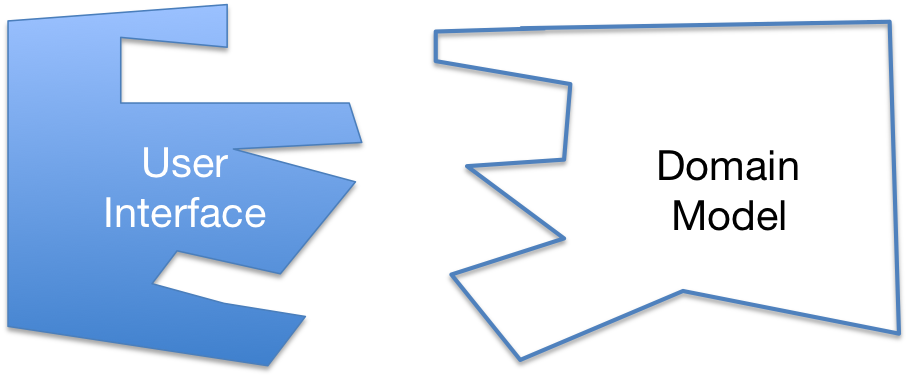
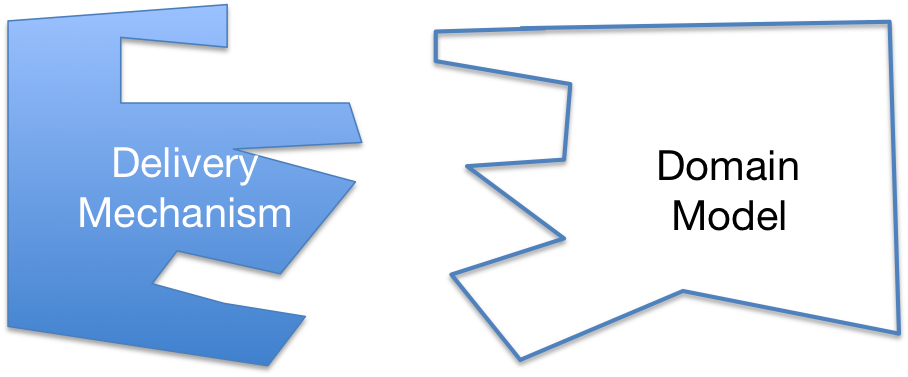
Finished writing and reviwing the post

Changed region(s): [[0.0617, 0.5252, 0.3392, 0.6127], [0.1233, 0.3793, 0.3084, 0.496]]

diff --git a/_posts/2017-10-08-outside-in-design.md b/_posts/2017-10-08-outside-in-design.md
@@ -6,7 +6,7 @@ title: A case for Outside-In Development
 date: 2017-10-08 05:00:00 +00:00
 author: Sandro Mancuso
 image:
-   src: /assets/img/custom/blog/2017-10-08-outside-in-design/delivery-mechanism_vs_domain-model.png
+   src: /assets/img/custom/blog/2017-10-08-outside-in-design/outside-in.png
 tags:
 - craftsmanship
 - software design
@@ -20,7 +20,7 @@ There is no reason to have a backend when there is no front-end. There is no rea
 
 ### Inside-Out Development
 
-Many developers focus on implementing the Domain Model before defining how it will be used by the external world. The way users (via User Interface) or other systems (via APIs, Messages, etc) will interact with the system is treated as a lesser concern. Doing business analyses and focusing on modelling the domain first is what I have learned at university over two decades ago. That is also what I learned with my seniors during the first half of my career. Led by the belief that the front-end changed more often than the business rules, we opted for creating a fully _decoupled_ and _robust_ backend system first, leaving the UI for a later stage. This approach is what I call inside-out development. 
+Many developers focus on implementing the Domain Model before defining how it is going to be used by the external world. The way users (via User Interface) or other systems (via APIs, Messages, etc.) will interact with the system is treated as a lesser concern. Doing business analyses and focusing on modelling the domain first is what I have learned at university over two decades ago. That is also what I learned with my seniors during the first half of my career. Led by the belief that the front-end changed more often than the business rules, we opted for creating a fully _decoupled_ and _robust_ backend system first, leaving the UI to a later stage. This approach is what I call _inside-out development_. 
 
 <center>
 <img src="{{site.baseurl}}/assets/img/custom/blog/2017-10-08-outside-in-design/inside-out.png" alt=“inside-out” class="img img-responsive" style="height: 70%; width: 70%;"/>
@@ -31,17 +31,21 @@ Many developers focus on implementing the Domain Model before defining how it wi
 
 Let’s look at some of the most important advantages of inside-out development: 
 
+**Early validation of business requirements**
+
+Some questions related to the business requirements only emerge when we start working on the code. Start coding from the domain model allows us to focus on the business rules straightaway, giving us an opportunity to uncover business inconsistencies, clarify requirements with more details, and validate assumptions. Getting a quick feedback on important areas of the system is a risk mitigation strategy.
+
 **Risk mitigation**
 
-Start coding from the domain model allows us to focus on the business rules straightaway and validate our assumptions. It also allow us to uncover problems that can significantly change our understanding of the scope and cost of the project. 
+Investigative and preventive work that allow us to uncover problems that can significantly change our understanding of the scope and cost of the project before writing any _scaffolding_ code. Identifying and mitigating risks before building too much code minimises re-work and helps to keep the project healthy.
 
 **Most valuable things first**
 
 Developers should work on the most valuable tasks first and there is a common belief that the domain model is arguably the most valuable piece of software. A counter argument to that is that software has no business value if it is not used by anyone. From this perspective, the domain model only has value when the full feature is implemented and used in production.
 
-**Volatile UI changes left to the end**
+**Volatile User Interface left to the end**
 
-User Interface are notorious to be volatile while business rules tend to change far less once defined. Staring with the business rules allows backend developers to make some progress while front-end developers iterate on the UI design. 
+User Interfaces (UI) are notorious to be volatile while business rules tend to change far less once defined. Starting with the business rules allows backend developers to make some progress while front-end developers iterate on the UI design. 
 
 #### Disadvantages
 
@@ -49,7 +53,7 @@ Let’s look at some of the disadvantages of this approach:
 
 **Wasted effort**
 
-Without the guidance of a well-defined and concrete need from the external world (being a user interface or API — delivery mechanism), we can easily build things that are not needed. When we finally define the delivery mechanism and try to plug it in, we quickly realise that the backend does not exactly satisfies the needs of the delivery mechanism. At this point we need to either write some plumbing code to connect both sides, change the backend or worse, compromise on the usability defined by the delivery mechanism so that we can reuse the code in the backend. 
+Without the guidance of a well-defined and concrete need from the external world (being a user interface or API — delivery mechanism), we can easily build things that are not needed. When we finally define the delivery mechanism and try to plug it in, we quickly realise that the backend does not exactly satisfies all the needs of the delivery mechanism. At this point we need to either write some plumbing code to connect both sides, change the backend or worse, compromise on the usability defined by the delivery mechanism so that we can reuse the code in the backend as is. 
 
 <center>
 <img src="{{site.baseurl}}/assets/img/custom/blog/2017-10-08-outside-in-design/delivery-mechanism_vs_domain-model.png" alt=“delivery mechanism vs domain model” class="img img-responsive" style="height: 60%; width: 60%;"/>
@@ -58,50 +62,62 @@ Without the guidance of a well-defined and concrete need from the external world
 
 **Speculative development**
 
-When focusing on the internals of a system before defining how it is going to be used, our imagination runs wild. We start thinking about all the different possibilities and things our code should do. We try to make our domain model as robust and generic as possible. As we keep speculating, solutions quickly become more complex. 
+When focusing on the internals of a system before defining how the system is going to be used, our imagination runs wild. We start thinking about all the different possibilities and the things our code should do. We try to make our domain model as robust and generic as possible. The more we speculate, the more accidental complexity creeps in. 
 
 **Delayed feedback**
 
 Users or external systems consuming our APIs don’t care about our backend. We can only get feedback from them if we can provide something for them to use or access. It doesn’t matter what we do on the backend. If the user journey (via the user interface) or APIs are not suitable, our backend has no value. If the front-end or APIs are done after the domain model (backend), we will only get feedback when the whole feature is done and that is too late.  
 
-**Course-grained developement**
+**Course-grained development**
 
-Working in small increments is difficult when focusing on the backend first. As the backend code is not being written to satisfy a specific need of the delivery mechanism, it is difficult to know when the feature is going to be done. Often we need to wait for the whole feature to be done in order to deploy. This approach makes it difficult to slice features in vertical slices and deliver it incrementally, one slice at a time. 
+A great way to deliver software incrementally is to slice our features in thin vertical slices. This becomes very hard when we start from the domain model, as we are not writing code to satisfy a specific external need. While building the domain model we yet don’t have the outside requirements to guide the vertical slices.
+
+Without being able to find a proper thin vertical slice, we need to wait for the whole feature to be done in order to get feedback and deploy. It is also difficult to predict when a feature will be done when the deliver mechanism is treated as an after thought, only decided after the domain model is implemented. 
 
 **Rushed delivery mechanism**
 
-Another danger of focusing on the backend first is that when the backend is done, developers are generally out of time or not so keen to work on the front-end. They end up rushing the front-end implementation causing two main problems: a) a worse user experience; b) lower quality standards when comparing to the backend, leading to a messy and difficult-to-maintain delivery mechanism. 
+Another danger of focusing on the backend first is that when the backend is done, developers are generally out of time or not so keen to work on the front-end. They end up rushing the front-end implementation causing two main problems: a) a bad user experience, b) lower quality standards when comparing to the backend, leading to a messy and difficult-to-maintain delivery mechanism. 
 
 **Impaired collaboration**
 
-Mobile, front-end and backend teams should not work in parallel while the APIs are not defined. This is also true for cross-functional teams where mobile, front-end and backend developers are in the same team[^1]. Having backend developers defining APIs cause a lot of friction and re-work once mobile and front-end try to integrate their code. 
+Mobile, front-end and backend teams should not work in parallel while the APIs are not defined. This is also true for cross-functional teams where mobile, front-end and backend developers are in the same team.[^1] Having backend developers defining APIs cause a lot of friction and re-work once mobile and front-end developers try to integrate their code. 
 
-## Risk mitigation
+## A deeper look at the advantages of Inside-Out
+
+Let’s take a deeper look into the advantages of Inside-Out development and check if they are real advantages and how can some of them be applied to Outside-In development as well. 
+
+### Risk mitigation
 
 One of the biggest advantages of Inside-Out Development is to tackle the core of the system first and hopefully uncover unknown problems — this is called risk mitigation. But is risk mitigation a thing we should do only in Inside-Out Development? Are all types of risk mitigation and exploratory work at the same level? 
 
-Quite often we are not sure what the solution should look like, which tools we should use, or how certain frameworks work. Some exploratory work[^2] is needed. Let’s look at some categories of exploratory work:
+Quite often we are not sure what the solution for a given business requirement should look like, how the business requirements should be designed and coded, which tools we should use, or how some frameworks work. Some exploratory work is needed.[^2] Now let’s look at some categories of exploratory work:
 
 * **Technical:** Related to frameworks, libraries, databases, or tools.
 * **Architecture:** Related to how systems will talk to each other, how logic is distributed across systems, APIs, messages between systems, production environments, logging, monitoring, etc.
 * **Macro-design:** Related to how we are going to organise the code at higher level: layers, hexagonal, bounded contexts, etc.
-* **Micro-design:** Related to business rules, class collaborations, type of algorithms, function compositions, etc. 
+* **Micro-design:** Related to business domain rules, class collaborations, algorithms, function compositions, etc. 
+
+
+<center>
+<img src="{{site.baseurl}}/assets/img/custom/blog/2017-10-08-outside-in-design/architecture_macro_micro_design.png" alt=“architecture, macro and micro design” class="img img-responsive" style="height: 60%; width: 60%;"/>
+</center>
+<br/>
+
+There is a difference between trying to uncover the unknowns as early as possible and actually delivering a feature. They should not be part of the same task. Whenever we are unsure about what needs to be done or how things should work, we should create a [spike][1] (or any other time-boxed activity) to investigate the problem. Once we have more information we can then commit to build a feature.  
 
 > Do not mix exploratory work with feature development. 
 
-There is a difference between trying to uncover the unknowns as early as possible and actually delivering a feature. They should not be part of the same task. Whenever we are unsure about what needs to be done or how certain things work, we should create a [spike][1] (or any other time-boxed activity) to investigate the problem. Once we have more information we can then commit to build a feature.  
-
 Among the four categories above, I find there is value to create separate spikes for Technical, Architecture, and Macro Design investigations but not for Micro Design. That’s an area of my code that naturally emerge through [Outside-In TDD][2]. 
 
-## User Interface changes and impacts
+### User Interface changes and impacts
 
-Another argument to start development from the domain model (inside-out) is that the User Interface (UI) is volatile and its implementation should be postponed to the last responsible moment. Well, it is often true that the User Interface (UI) changes more often than the business rules but do all the UI changes really impact the backend? Let’s have a look at the most common types of UI changes and their respective impact on the backend code:
+Another argument to start development from the domain model (Inside-Out) is that the User Interface (UI) is volatile and its implementation should be done after the domain model is finished. Well, it is often true that the User Interface (UI) changes more often than the business rules do, but do all the UI changes really impact the backend? Let’s have a look at the most common types of UI changes and their respective impact on the backend code:
 
 #### Aesthetic
-Aesthetic changes are related to the look and feel of the UI. These changes can be done by web designers, front-end developers and user experience specialists without any change in the backend. Aesthetic changes are normally the most common type of changes in the UI.
+Aesthetic changes are related to the look and feel of the UI — normally done by web designers, front-end developers and user experience specialists without any impact in the backend. Aesthetic changes are normally the most common type of changes in the UI.
 
 #### Behavioural
-Behavioural changes are related to how users interact with the system. They impact the _user journey_, that means, the steps users need to perform to achieve a desired outcome. 
+Behavioural changes are related to how users interact with the system. They impact the _user journey_ — the steps users need to perform to achieve a desired outcome. 
 
 Behavioural changes can be subdivided in two main characteristics: **Navigational** and **Actionable**. 
 
@@ -109,63 +125,125 @@ Behavioural changes can be subdivided in two main characteristics: **Navigationa
 Navigational changes are related to how the user navigates across the application or within specific user journeys. In a web application, navigational changes in the UI may or may not trigger changes in the backend. It all depends on the type of front-end technologies being used and how the View and Controller layers (MVC) are structured. If the Controller layer lives in the browser (normally the case when using frameworks like AngularJS and React), there is no change in the backend. If we have a more traditional web application where the Controller lives in the backend, then the backend needs to change every time a link (or button) is added, removed, of changed. For more details, please have a look at my previous post on [MVC, Delivery Mechanism and Domain Model][3].
 
 **Actionable**
-Actionable changes are related to the actions the user can perform in the system. They are the ones that provide the business value to the user and to the company. Examples would be buying products, reading reviews of restaurants, booking a ticket, just to mention a few. Most often, the changes in the UI are small — adding a button, changing URL parameters or HTTP method or return code. The biggest change are normally in the backend, often creating or changing an existing API and the flow triggered by it. 
+Actionable changes are related to the actions the user can perform in the system. They are the ones that provide the business value to the user and to the company. Examples would be buying products, reading reviews of restaurants, booking a ticket, just to mention a few. Most often, the changes in the UI are small — adding a button, changing URL parameters or HTTP method or return code. The biggest changes are normally in the backend, often creating or changing an existing API and the flow triggered by it. 
 
 #### Data
-Data changes are related to the type of data displayed to the user or required from user. These changes normally involve a change in the data the existing APIs receive or return. In general, these changes in the backend are not so complicated as we only need to make _small_ changes to existing flows instead of creating a brand new flow. 
+Data changes are related to the data displayed to the user or required from user. These changes normally involve a change in the data the existing APIs receive or return. The impact on the backend varies according to the data and the complexity to return or store the data. 
 
 ### How much do UI changes really impact the domain model?
 
-As [discussed before][3], the way we decide to structure our delivery mechanism and domain model will make our backend more or less susceptible to UI changes. In a well structured web application, changes in the backend can be significantly reduced if the delivery mechanism is fully responsible for the navigation of the system while the domain model is only exposing  business flows and managing data. Although designed to satisfy user’s needs, the domain model should have no knowledge of how those business flows are presented to users.
+As [discussed before][3], the way we decide to structure our delivery mechanism and domain model will make our backend more or less susceptible to UI changes. In a well-structured web application, changes in the backend can be significantly reduced if the delivery mechanism is fully responsible for the navigation of the system while the domain model is only exposing business flows and managing data. Although designed to satisfy user’s needs, the domain model should have no knowledge of how those business flows are presented to users.
 
 ### User interactions represent user needs
 
-Every user interaction with the user interface represents a user need. It is the systems’s job to satisfy the user’s need every time the user request something. If the user only wants to navigate from one part of the website to another, than this logic belongs to the delivery mechanism and not the domain model. However, if the user wants store or retrieve information, than the logic belongs to the domain model. And its from the user’s perspective that we should start designing our domain model. 
+Every user interaction with the user interface represents a user need. It is the systems’ job to satisfy the users need every time users request something. If the user only wants to navigate from one part of the website to another, than this logic belongs to the delivery mechanism and not the domain model. However, if the user wants store or retrieve information, than the logic belongs to the domain model. And it is from the user’s perspective that we should start designing our domain model. 
 
 ## A case for Outside-In development 
 
-In order to agree on technical practices and how we should design software, we should first agree in a few basic principles. For the rest of the post I’ll assume we all agree with the following:
+In order to agree on how we should design software, we should first agree in a few basic principles. For the rest of the post I’ll assume we all agree with the following:
 
-**[NEED A NAME FOR THESE PRINCIPLES]**
+* **Value is only delivered when the system is in production and satisfactorily used by users or external systems.**
+* **We should strive to deliver value as soon and often as possible.**
+* **We should do the appropriate due diligence before building anything.**
+* **We should get feedback as soon and as often as possible.**
+* **We should always work in small valuable increments.**
+* **We should Keep things as simple as possible but no simpler.** 
+* **We should only build what really needs to be built, nothing more.**
+* **We should not work on technical tasks if they do not have business value.**
+* **Investigative work should be time-boxed and done as separate a task.**
 
-* **Only build what needs to be built.**
-* **Keep things as simple as possible but no simpler.** 
-* **Get feedback as soon and as often as possible.**
-* **Deliver value as soon and often as possible.**
-* **Value is only delivered when system is in production.**
-* **Always work in small valuable increments.**
-* **Do appropriate due diligence before building anything.**
+## Outside-In Development
 
-## Outside-In development
+Outside-In development is an approach that focuses on building just enough code to satisfy an external need, reducing accidental complexity by removing speculative coding.  
 
-> The domain model should only exist to satisfy an external need  (being from user or another system) and it must be designed from this external perspective. 
+<center>
+<img src="{{site.baseurl}}/assets/img/custom/blog/2017-10-08-outside-in-design/outside-in.png" alt=“inside-out” class="img img-responsive" style="height: 70%; width: 70%;"/>
+</center>
+<br/>
 
+> Code should only be written to satisfy an external need, being from a user, an external system, or another piece of code. 
 
+_Note: For the rest of the post I will assume people are working on a cross-functional team._[^3]
 
- 
+### Incremental development 
 
- 
+> We should only build what really needs to be built, nothing more.
 
-## Horizontal, and then vertical
+Without constraints our imagination runs wildly. While building software it is important to be constrained by (or focused on) the bare minimum that needs to be done to satisfy a business requirement.
 
-Instead we prefer of driving the development from small [vertical slices][4] of the system. 
+In Outside-in development, instead of working on the domain model first and then the persistence and UI, only releasing to production when the whole feature is done, we prefer to work in smaller increments, driving the development from the UI.
 
-## Outside-IN API Design [TODO - REFINE - MAYBE TOO EARLY FOR THIS]
+<center>
+<img src="{{site.baseurl}}/assets/img/custom/blog/2017-10-08-outside-in-design/sliced-feature.png" alt="sliced feature" class="img img-responsive" style="height: 70%; width: 70%;"/>
+</center>
+<br/> 
 
-APIs should always be designed to satisfy the needs of whoever needs to consume it. Front-end, mobile, and backend developers should collaborate in API design, but the design  do everything in their power to reduce the work done by the clients of their APIs. Having backend developers defining APIs without the input of mobile or front-end teams lead to a lot of effort from those teams to adapt their code to the APIs. 
+#### Drawing mockups
 
-APIs should be designed with an external workflow in mind, that means, the most common workflows that either users or external system are expected to perform. Even when we are providing a public API, we should have a [reference implementation][5] application and discuss the potential needs of the external world. We should reconsider our decision to expose an API if we can not define a good use case for them. 
+The first thing to do is to quickly draw a few mock-ups using a tool like [Balsamiq][5]. The cool thing about Balsamiq is that we can quickly create executable mock-ups, that means, we can play the mock-ups, clicking on links, moving to other pages, etc. This activity is normally done in collaboration with users and/or Product Owners. While drawing the mock-ups we focus more on the user journey and the information we will have on each page, without wasting time on how the page will actually look. As we need to add names to the visual components (labels, forms, buttons, links, etc.), we have the domain language (or ubiquitous language) naturally emerging from those mock-ups. From the mock-ups we can extract all the nouns and verbs that will make up the vocabulary used in our domain model. 
 
+When mock-ups are done collaboratively, the whole team has not only a clear vision of what needs to be done but also the buy-in. Mock-ups give the whole team a better idea of how the system will be used and how features connect to each other. Also, the mock-ups become a good starting point to discuss user stories and start slicing the features into small deliverables without loosing sight of the whole.
+
+A danger with this approach is to go too far with the mock-ups, trying to make them look like the real UI or create mock-ups for too many features. We should also never use mock-ups tools to generate code. The goal of having mock-ups is to agree on the user journeys and the data the user will be interacting with during each journey.
+
+#### Breaking a feature into smaller increments
+
+When starting a new feature, the first thing to do is to build the UI for that feature. That sounds very counter-intuitive and generally makes backend developers shake their heads. “Oh no, no, no. This is really wrong.” Well, is it? Building the UI will give us a very quick feedback from our users or Product Owner. If they don’t like how the system is going to be used or the language used, we can change it easily without any backend impact - there is no backend yet. Once we all agree with the UI, we will know the exact behaviour the backend will need to provide and will have a more well-defined and stable domain language. If the UI has behaviour, the whole UI can be tested independently, mocking the calls to the backend. This will also help to stabilise the APIs needed by the UI. 
+
+Once the UI is done, we are ready to slice the backend work in vertical increments. Each vertical increment should start from a user interaction and contain all the logic (persistence, communication with external systems, etc.) needed to satisfy that user interaction. Once this increment is finished, the system will have a new behaviour added to it. 
+
+This methodical approach to slice our features in small increments and always start the development from outside (UI) allows us to easily define the boundaries for acceptance tests and use them to guide our development. 
+
+Once one increment is done, demoed and accepted, we can deploy it to production or any other environment.[^4] Now we are ready to start a new increment.  
+
+### Outside-In API Design
+
+APIs should always be designed to satisfy the needs of consumers. But before we go deeper, let’s first think about different contexts where APIs are provided: 
+
+- **Company-private APIs:** Only used by systems controlled by the API provider (internal).
+- **Public APIs:** Used by systems not controlled by the API provider (external). 
+- **Hybrid APIs:** Used by internal and external systems.
+
+#### Company-private APIs
+
+APIs sole purpose is to satisfy the needs of their clients, being multiple delivery mechanisms or other modules (services). Front-end, mobile, and backend developers should collaborate in API design. This collaboration should also happen when one team needs to consume an API being developed by another team. API design should be driven by the needs of the clients of the API and not by what backend developers think API clients will need.
+
+I’ve seen in many companies, backend developers designing APIs and imposing them on mobile and front-end developers. Mobile and front-end developers often needed to adjust their user journeys or add a lot of unnecessary complexity because the APIs were not designed to serve them. This way of working became so common that many mobile and front-end developers now believe that API design is not their job and they don’t push to get involved. 
+
+API providers (backend developers) should do everything in their power to reduce the work done by the clients of their APIs. Having APIs created by backend developers without clearly understanding the needs of the delivery mechanism and their respective flows lead to complex delivery mechanisms and frictions between teams. The problems can be reduced significantly with cross-functional teams, where developers need to work not only on the API but also on its clients. 
+
+In case there is only one client for an API, the API should be specific for that client. APIs gradually become more generic as we add more clients and different external needs.   
+
+#### Public APIs
+
+It’s difficult to predict all the possible ways a public API will be used. However, even public APIs should be designed with an external workflow in mind, starting with the most common workflow(s) that clients are expected to have while using our APIs. Depending on the type of APIs being exposed, we should start with a [reference implementation][6] and derive the API design from its needs. Reference implementations allow us to validate if flows and API granularity make sense. We should reconsider our decision to expose an API if we cannot image a good use case for them. 
+
+#### Hybrid APIs
+
+Hybrid APIs can be very complicated to maintain as they suffer pressure from different sides to evolve. Similar to the company-private and public APIs, they should also be designed according to the need of their clients.  
+
+## Summary
+
+Risk mitigation is an extremely important activity in any software project. However, we should not mix exploratory work with feature development. 
+
+Code should only be written to satisfy an external need, being from a user, an external system, or another piece of code. We should only build what really needs to be built, nothing more.
+
+Guiding our design and code to according to the external need helps us to remain focus on the task at hand and avoid speculative development. 
+
+In order to achieve continuous delivery and deployment, it is important work in small increments. Slicing features in small vertical slices is a great way to make sure each increment has business value. 
+
+Outside-In development is a structured and incremental way to deliver software, focus on delivering just enough behaviour to satisfy an external need. 
+
+_Note: In the next blog posts we will dive into more details of Outside-In development._
 
 [^1]: Cross-functional team does not mean cross-functional people. 
 [^2]: For the sake of brevity I’m only referring to technical exploratory work, leaving out things like usability tests, business impact, etc.
+[^3]: Teams where among their members they have all the skills needed to build what they are asked. E.g.: front-end, mobile, backend, operations, etc.
+[^4]: Some times we might want to batch increments before deploying to production. Alternatively, we can continuously deploy them and use feature toggles. 
 
-[1]: spike
-[2]: Outside-In TDD
-[3]: link to MVC, Delivery Mechanism and Domain Model.
-[4]: vertical slices (walking skeleton)
-[6]: YAGNI
-[7]: KISS
-
-[3]: Reference for the DDD building blocks. 
+[1]: https://en.wikipedia.org/wiki/Spike_(software_development)
+[2]: https://codurance.com/2015/05/12/does-tdd-lead-to-good-design/
+[3]: https://codurance.com/2017/09/20/mvc-delievery-mechanism-dm/
+[5]: https://balsamiq.com/products/mockups/
+[6]: https://en.wikipedia.org/wiki/Reference_implementation
 
